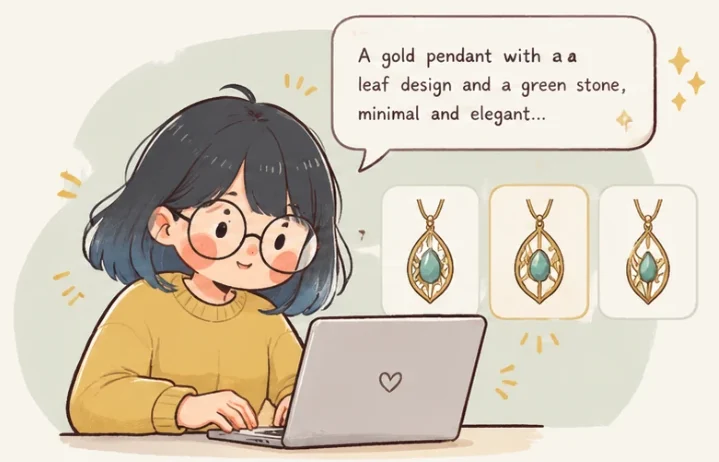
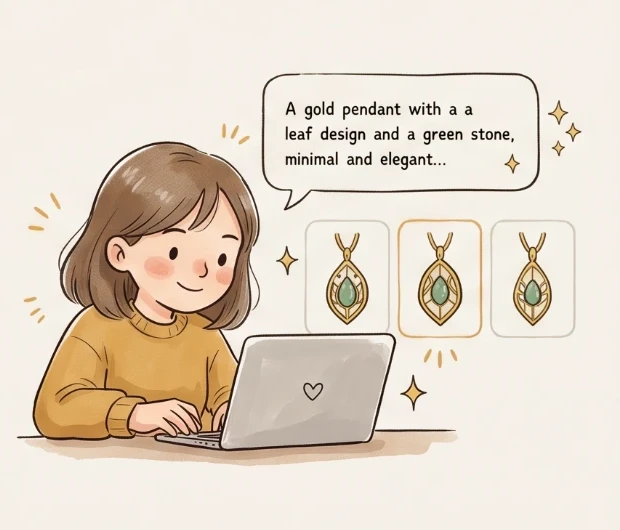
Takshila: new prompting illustrations without cards, keep visuals after 'What I found' on mobile

diff --git a/src/components/takshila/takshila-parts.css b/src/components/takshila/takshila-parts.css
@@ -1103,23 +1103,22 @@ div.tk-ba-after {
   gap: 8px;
   align-items: center;
   padding: 10px 10px 14px;
-  border: 1px solid var(--tk-line);
   border-radius: 14px;
-  background: #ffffff;
   text-align: center;
   transition:
     transform 260ms ease,
     box-shadow 260ms ease,
+    background-color 260ms ease,
+    color 260ms ease,
     opacity 260ms ease;
 }
 
+/* Illustrations sit straight on the panel; their paper matches it. */
 .tk-prompt-img {
   display: block;
   width: 100%;
-  aspect-ratio: 5 / 4;
-  border-radius: 10px;
+  aspect-ratio: 620 / 530;
   object-fit: contain;
-  background: #f8f4ec;
 }
 
 .tk-prompt-users strong {
@@ -1157,47 +1156,24 @@ div.tk-ba-after {
   background: var(--tk-gold);
 }
 
-.tk-prompt-users li[data-focus] {
-  position: relative;
-  border-color: var(--tk-plum);
+/* The focus group gets its plum card only while hovered. */
+.tk-prompt-users li[data-focus]:hover {
   background: var(--tk-plum);
   color: var(--tk-bg);
   transform: translateY(-6px);
   box-shadow: 0 18px 36px -16px rgba(109, 59, 84, 0.55);
-  animation: tk-focus-glow 2.6s ease-in-out infinite;
 }
 
-/* A soft gold ring that breathes around the focus group. */
-@keyframes tk-focus-glow {
-  0%,
-  100% {
-    box-shadow:
-      0 18px 36px -16px rgba(109, 59, 84, 0.55),
-      0 0 0 0 rgba(192, 148, 53, 0);
-  }
-
-  50% {
-    box-shadow:
-      0 22px 40px -16px rgba(109, 59, 84, 0.6),
-      0 0 0 5px rgba(192, 148, 53, 0.35);
-  }
-}
-
-/* Hovering a card lifts it; the others step back. Hovering the focus group lifts it further. */
-.tk-prompt-users li:hover {
-  transform: translateY(-6px);
-  box-shadow: 0 16px 30px -18px rgba(43, 16, 22, 0.45);
-}
-
-.tk-prompt-users li[data-focus]:hover {
-  transform: translateY(-10px) scale(1.02);
+.tk-prompt-users li[data-focus]:hover .tk-prompt-img {
+  border-radius: 10px;
+  background: var(--tk-bg);
 }
 
 .tk-prompt-users:hover li:not(:hover) {
   opacity: 0.7;
 }
 
-.tk-prompt-users li[data-focus] .tk-tick:not([data-on]) {
+.tk-prompt-users li[data-focus]:hover .tk-tick:not([data-on]) {
   background: rgba(245, 239, 231, 0.3);
   color: var(--tk-bg);
 }
@@ -1574,36 +1550,9 @@ div.tk-ba-after {
     transform: rotate(90deg);
   }
 
-  /* On mobile the visual comes right after the heading. */
+  /* On mobile everything keeps reading order, so an inline visual stays after "What I found". */
   .tk-decision-block {
     padding: 22px;
-  }
-
-  .tk-decision-block,
-  .tk-decision-text {
-    display: flex;
-    flex-direction: column;
-  }
-
-  .tk-decision-text {
-    display: contents;
-  }
-
-  .tk-decision-block .tk-tag {
-    order: 1;
-  }
-
-  .tk-decision-block h4 {
-    order: 2;
-  }
-
-  .tk-decision-visual {
-    order: 3 !important;
-  }
-
-  .tk-points,
-  .tk-decision-block .tk-chips {
-    order: 4;
   }
 }
 
